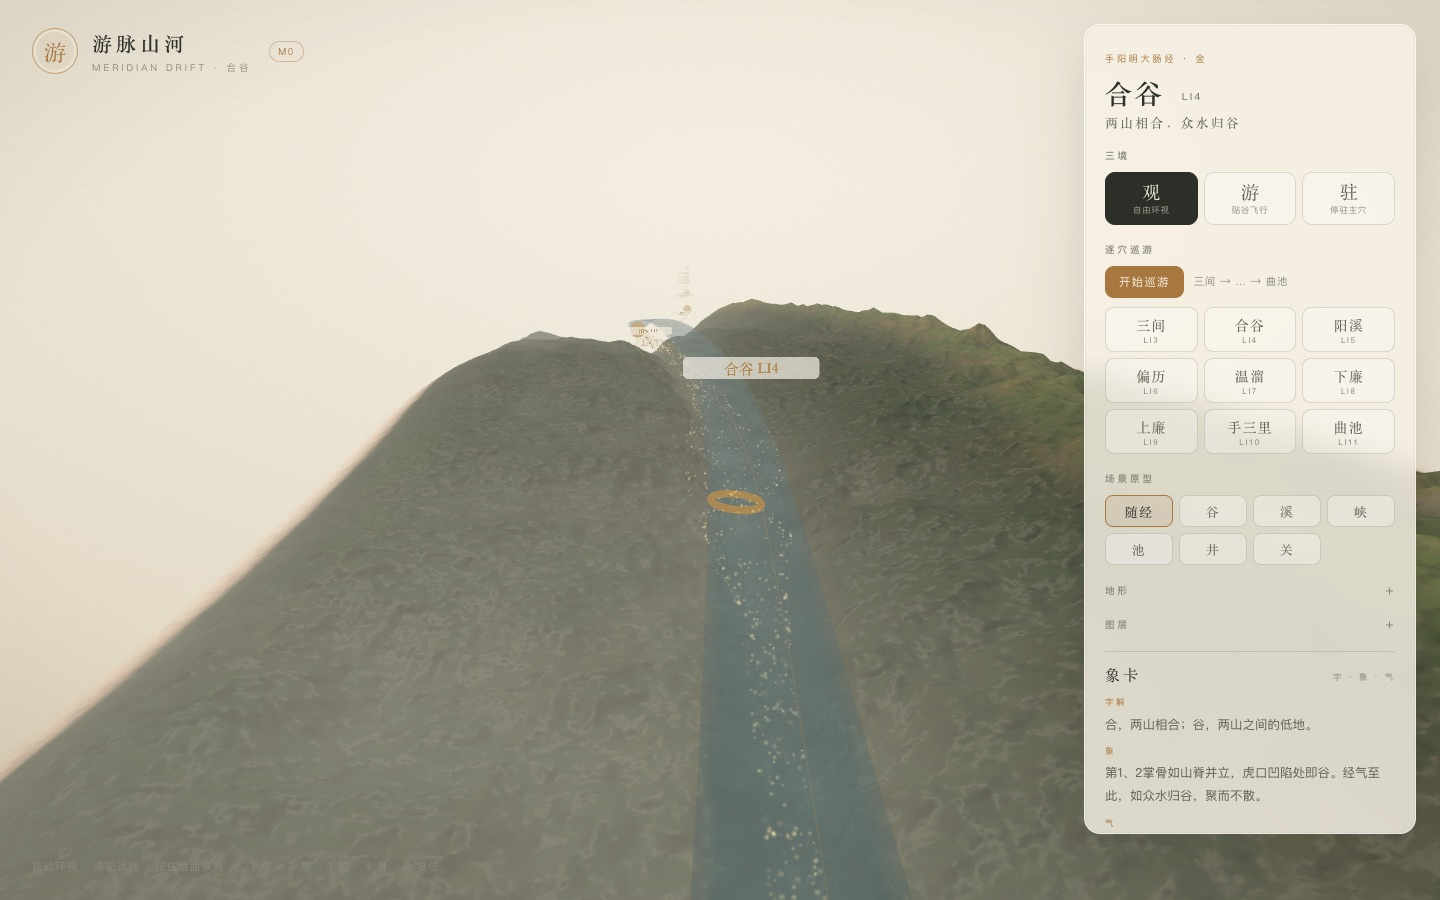
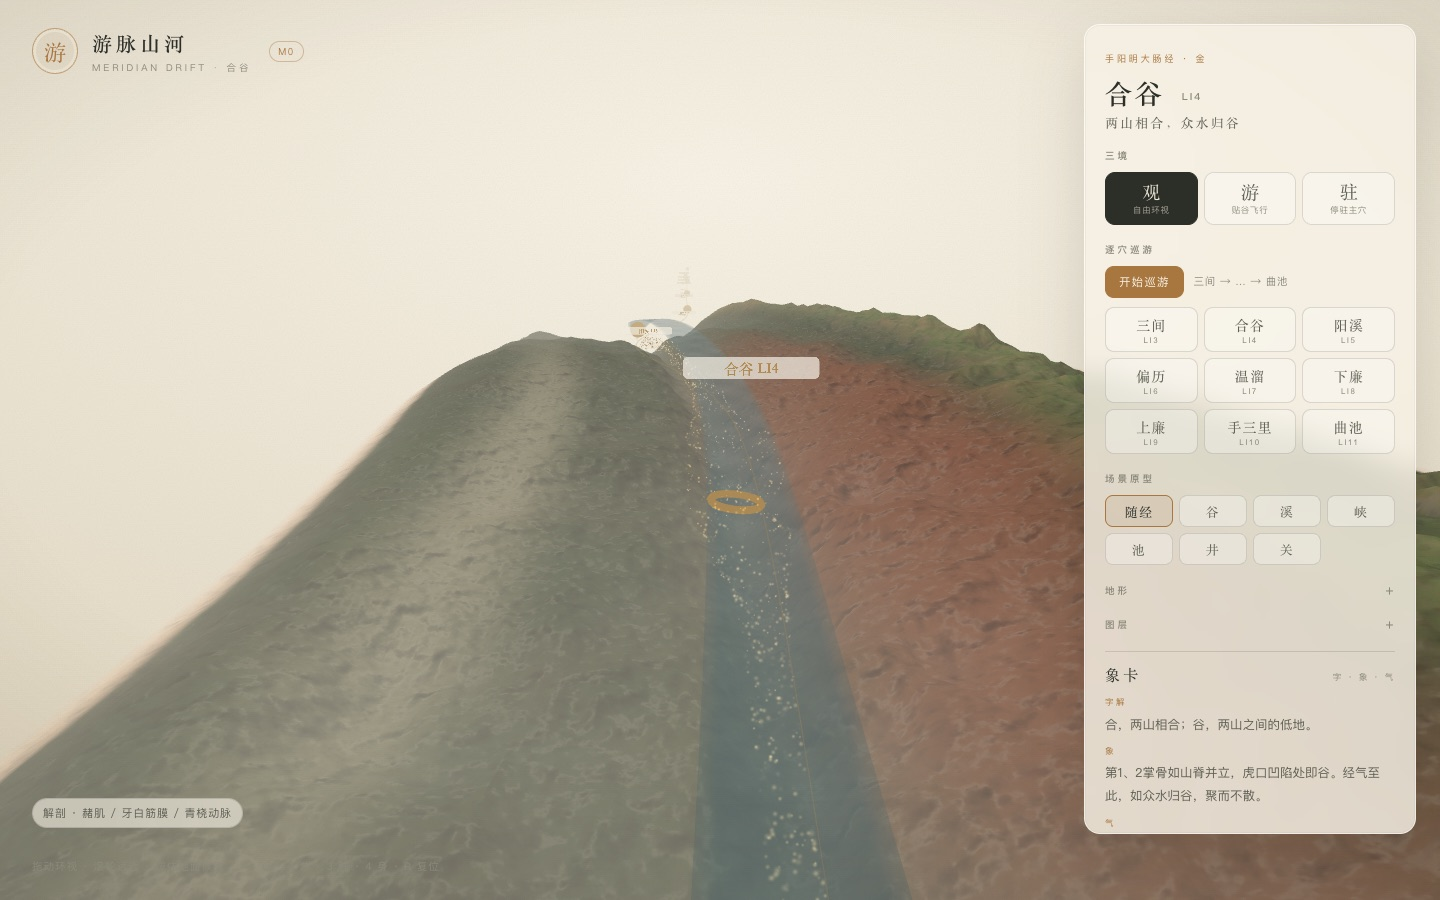
feat: 解剖层着色与图例
- 地形顶点新增 aAnatomy，肌腹/筋膜/桡动脉按带符号位移着色
- 解剖开关联动地形材质与左下角图例
- 缓存版本升到 3，解剖截图更新

diff --git a/packages/render/src/terrain/terrainMaterial.ts b/packages/render/src/terrain/terrainMaterial.ts
@@ -11,6 +11,7 @@ const vertexShader = /* glsl */ `
   attribute float aConcavity;
   attribute float aEdge;
   attribute float aAlpha;
+  attribute float aAnatomy;
   varying vec3 vWorld;
   varying vec3 vNormalW;
   varying vec2 vUv;
@@ -18,6 +19,7 @@ const vertexShader = /* glsl */ `
   varying float vConcavity;
   varying float vEdge;
   varying float vAlpha;
+  varying float vAnatomy;
 
   void main() {
     vec4 world = modelMatrix * vec4(position, 1.0);
@@ -28,6 +30,7 @@ const vertexShader = /* glsl */ `
     vConcavity = aConcavity;
     vEdge = aEdge;
     vAlpha = aAlpha;
+    vAnatomy = aAnatomy;
     gl_Position = projectionMatrix * viewMatrix * world;
   }
 `;
@@ -46,6 +49,9 @@ const fragmentShader = /* glsl */ `
   uniform float uFogDensity;
   uniform float uInkStrength;
   uniform float uInkBoost;
+  uniform float uAnatomy;
+  uniform vec3 uMuscle;
+  uniform vec3 uFascia;
   uniform float uTime;
   uniform float uWaterY;
   uniform vec3 uSkin;
@@ -57,6 +63,7 @@ const fragmentShader = /* glsl */ `
   varying float vConcavity;
   varying float vEdge;
   varying float vAlpha;
+  varying float vAnatomy;
 
   float hash21(vec2 p) {
     p = fract(p * vec2(123.34, 456.21));
@@ -121,6 +128,12 @@ const fragmentShader = /* glsl */ `
 
     // 积墨 + 山脊/陡坡的淡墨线
     float rim = pow(1.0 - clamp(dot(n, viewDir), 0.0, 1.0), 3.0);
+    // 解剖层：肌腹赭红、筋膜牙白；关闭时 uAnatomy=0
+    float muscleMask = smoothstep(0.00005, 0.00055, vAnatomy);
+    float fasciaMask = smoothstep(0.00005, 0.0004, -vAnatomy);
+    col = mix(col, uMuscle, muscleMask * uAnatomy * 0.5);
+    col = mix(col, uFascia, fasciaMask * uAnatomy * 0.35);
+
     float hatch =
       smoothstep(0.58, 0.92, slope) *
       smoothstep(0.42, 0.78, fbm(vWorld.xz * 520.0 + vWorld.y * 700.0));
@@ -175,6 +188,9 @@ export function createTerrainMaterial(options: TerrainMaterialOptions): THREE.Sh
       uFogDensity: { value: fogDensity },
       uInkStrength: { value: 0.7 },
       uInkBoost: { value: 1 },
+      uAnatomy: { value: 0 },
+      uMuscle: { value: new THREE.Color('#8f4c3e') },
+      uFascia: { value: new THREE.Color('#e9dfca') },
       uWaterY: { value: 0 },
       uSkin: { value: new THREE.Color('#d9b49c') },
       uTime: { value: 0 },

diff --git a/packages/scene-gen/src/corridor/build.ts b/packages/scene-gen/src/corridor/build.ts
@@ -21,6 +21,8 @@ export interface MeshData {
   indices: Uint32Array;
   /** 可选：用于窗口边缘淡出 */
   alpha?: Float32Array;
+  /** 可选：解剖叠加层的带符号位移 */
+  anatomy?: Float32Array;
 }
 
 export interface WaterData {
@@ -94,6 +96,7 @@ export function buildCorridorData(
   const wet = new Float32Array(count);
   const edge = new Float32Array(count);
   const alpha = new Float32Array(count);
+  const anatomy = new Float32Array(count);
   const heights = new Float32Array(count);
 
   let minX = Infinity;
@@ -124,6 +127,7 @@ export function buildCorridorData(
       alpha[i] =
         smooth01(Math.min(s - s0, s1 - s) / 0.008) *
         smooth01(Math.min(t - tMin, tMax - t) / 0.0015);
+      anatomy[i] = field.anatomyAt(s, t);
 
       minX = Math.min(minX, p[0]);
       minY = Math.min(minY, p[1]);
@@ -138,7 +142,7 @@ export function buildCorridorData(
   const concavity = computeConcavity(heights, rows, cols);
   const indices = buildIndices(rows, cols);
 
-  const terrain: MeshData = { positions, normals, uvs, indices, alpha };
+  const terrain: MeshData = { positions, normals, uvs, indices, alpha, anatomy };
   const river = buildRiver(field, sValues[0]!, sValues[sValues.length - 1]!);
   const pool =
     field.domain.s0 <= field.heguS && field.heguS <= field.domain.s1

diff --git a/packages/render/src/terrain/TerrainView.ts b/packages/render/src/terrain/TerrainView.ts
@@ -9,6 +9,7 @@ export interface TerrainView {
   dispose(): void;
   setFogDensity(value: number): void;
   setInk(enabled: boolean): void;
+  setAnatomy(enabled: boolean): void;
 }
 
 /** 把 scene-gen 的纯数据装配成 three 网格 */
@@ -20,6 +21,9 @@ export function createTerrainView(corridor: CorridorMeshData): TerrainView {
   geometry.setAttribute('aWet', new THREE.BufferAttribute(corridor.wet, 1));
   geometry.setAttribute('aConcavity', new THREE.BufferAttribute(corridor.concavity, 1));
   geometry.setAttribute('aEdge', new THREE.BufferAttribute(corridor.edge, 1));
+  if (corridor.terrain.anatomy) {
+    geometry.setAttribute('aAnatomy', new THREE.BufferAttribute(corridor.terrain.anatomy, 1));
+  }
   if (corridor.terrain.alpha) {
     geometry.setAttribute('aAlpha', new THREE.BufferAttribute(corridor.terrain.alpha, 1));
   } else {
@@ -56,6 +60,9 @@ export function createTerrainView(corridor: CorridorMeshData): TerrainView {
     setInk(enabled: boolean) {
       material.uniforms.uInkStrength!.value = enabled ? 0.7 : 0;
       material.uniforms.uInkBoost!.value = enabled ? 1 : 0;
+    },
+    setAnatomy(enabled: boolean) {
+      material.uniforms.uAnatomy!.value = enabled ? 1 : 0;
     },
   };
 }

diff --git a/apps/web/src/scene/SceneHost.ts b/apps/web/src/scene/SceneHost.ts
@@ -283,6 +283,7 @@ export class SceneHost {
 
   private createLayers(corridor: CorridorMeshData): Layers {
     const terrain = createTerrainView(corridor);
+    terrain.setAnatomy(this.params.anatomy);
     const water = createWaterView(corridor);
     const mist = createMistView(corridor.field);
     const markers = createMarkerView(corridor.field.route, corridor.field);
@@ -478,6 +479,7 @@ export class SceneHost {
 
       this.corridor = corridor;
       const terrain = createTerrainView(corridor);
+      terrain.setAnatomy(this.params.anatomy);
       const water = createWaterView(corridor);
       const mist = createMistView(corridor.field);
       const markers = createMarkerView(corridor.field.route, corridor.field);

diff --git a/apps/web/src/styles.css b/apps/web/src/styles.css
@@ -366,6 +366,30 @@ body {
   margin-top: 10px;
 }
 
+.anatomy-badge {
+  position: absolute;
+  left: 32px;
+  bottom: 72px;
+  z-index: 6;
+  padding: 6px 10px;
+  border: 1px solid var(--line);
+  border-radius: 999px;
+  background: rgba(245, 240, 228, 0.62);
+  backdrop-filter: blur(6px);
+  font-size: 11px;
+  letter-spacing: 0.08em;
+  color: var(--ink-soft);
+  pointer-events: none;
+}
+
+.anatomy-legend {
+  grid-column: 1 / -1;
+  margin: 6px 0 0;
+  font-size: 11px;
+  letter-spacing: 0.08em;
+  color: var(--ink-faint);
+}
+
 .archetypes {
   display: grid;
   grid-template-columns: repeat(4, 1fr);

diff --git a/apps/web/src/App.tsx b/apps/web/src/App.tsx
@@ -264,6 +264,10 @@ export function App() {
             onReset={handleReset}
           />
 
+          {params.anatomy && (
+            <div className="anatomy-badge">解剖 · 赭肌 / 牙白筋膜 / 青桡动脉</div>
+          )}
+
           <div className={pressing ? 'press-badge active' : 'press-badge'} aria-hidden={!pressing}>
             <span className="press-dot" />
             候气 · 气聚于谷

diff --git a/apps/web/src/ui/Panel.tsx b/apps/web/src/ui/Panel.tsx
@@ -200,6 +200,9 @@ export function Panel(props: PanelProps) {
             checked={params.anatomy}
             onChange={(v) => props.onParams({ anatomy: v })}
           />
+          {params.anatomy && (
+            <p className="anatomy-legend">赭 · 肌腹　牙白 · 筋膜　青 · 桡动脉</p>
+          )}
           <Toggle
             label="身体"
             checked={visibility.body}

diff --git a/apps/web/src/workers/scene-gen.worker.ts b/apps/web/src/workers/scene-gen.worker.ts
@@ -29,6 +29,8 @@ function collectBuffers(data: CorridorData): Transferable[] {
     data.terrain.normals.buffer,
     data.terrain.uvs.buffer,
     data.terrain.indices.buffer,
+    ...(data.terrain.alpha ? [data.terrain.alpha.buffer] : []),
+    ...(data.terrain.anatomy ? [data.terrain.anatomy.buffer] : []),
     data.wet.buffer,
     data.edge.buffer,
     data.concavity.buffer,

diff --git a/packages/scene-gen/src/corridor/field.ts b/packages/scene-gen/src/corridor/field.ts
@@ -197,6 +197,11 @@ export class TerrainField {
     ];
   }
 
+  /** 解剖叠加层的带符号位移，供顶点着色与调色 */
+  anatomyAt(s: number, t: number): number {
+    return anatomyDisplacement(s, t, this.anatomyCtx);
+  }
+
   normalAt(s: number, t: number): Vec3 {
     return this.surfaceFrameAt(s, t).normal;
   }

diff --git a/apps/web/src/scene/corridorService.ts b/apps/web/src/scene/corridorService.ts
@@ -14,7 +14,7 @@ interface Pending {
   timer: number;
 }
 
-const CACHE_VERSION = 2;
+const CACHE_VERSION = 3;
 
 /**
  * 地形网格的离线程生成 + IndexedDB 缓存。

diff --git a/docs/15-解剖山体设计.md b/docs/15-解剖山体设计.md
@@ -118,7 +118,7 @@ H(s,t) = 皮肤基面
   - 桡动脉走行的浅槽；
 - 幅度约 0.2–0.8mm，叠加在现有 3–5mm 山谷上；
 - 默认关闭，原有画面不变；
-- 面板「图层 → 解剖」开关 + URL `?anatomy=1`。
+- 面板「图层 → 解剖」开关 + URL `?anatomy=1`；开启后左下角显示「赭肌 / 牙白筋膜 / 青桡动脉」。
 
 ### 原型参数（米）
 
